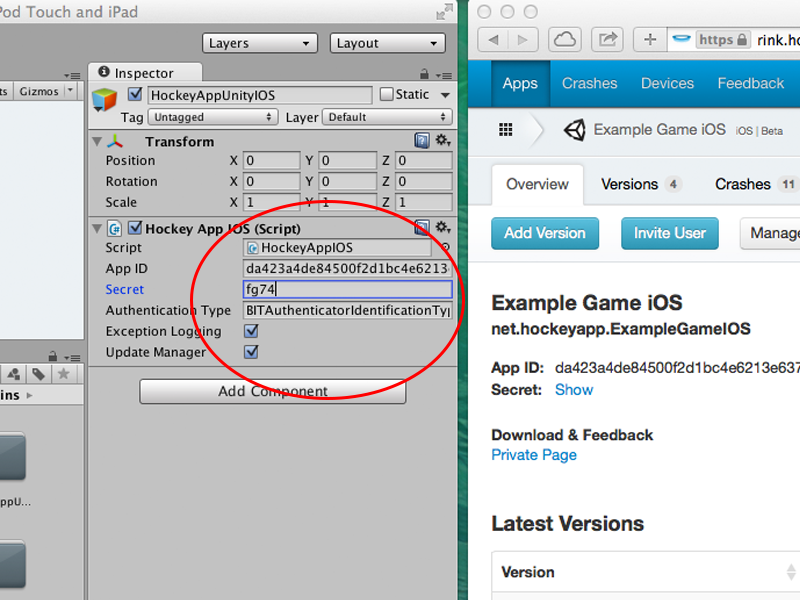
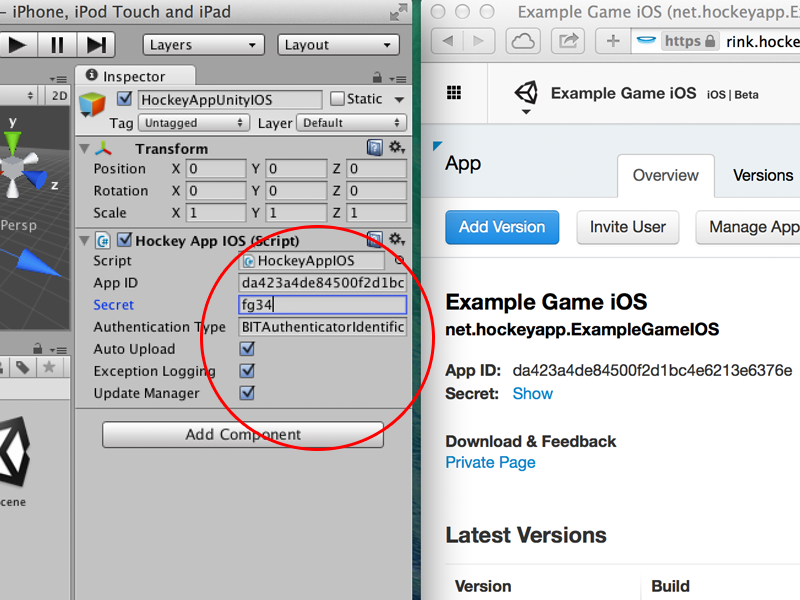
Update readme.md (add auto-send feature)

diff --git a/README.md b/README.md
@@ -28,10 +28,11 @@ Add the **HockeyAppIOS.cs** as a component of your new created gameobject.
 Select the game object in the **Hierarchy** pane and fill in some additional informations inside the Inspector window. 
 
 * **App ID** - the app ID provided by HockeyApp
-* **Exception Logging** - by checking this option you will get more precise information about exceptions in your Unity scripts
-* **Update Manager** - ckeck this option if users should be informed about app updates from inside your app
-* **Authentication Type** - an authentication type as string (see [Authenticating Users on iOS](http://support.hockeyapp.net/kb/client-integration-ios-mac-os-x/authenticating-users-on-ios))
 * **Secret** - the secret provided by HockeyApp (only for authentication using email address)
+* **Authentication Type** - an authentication type as string (see [Authenticating Users on iOS](http://support.hockeyapp.net/kb/client-integration-ios-mac-os-x/authenticating-users-on-ios))
+* **Exception Logging** - by checking this option you will get more precise information about exceptions in your Unity scripts
+* **Auto Upload** -  this option defines if the crash reporting feature should send crash reportings automatically without asking the user. 
+* **Update Manager** - ckeck this option if users should be informed about app updates from inside your app
 
 ![alt text](Documentation/04_script_vars.png "Configure script")
 
@@ -49,7 +50,7 @@ You are now ready to build the Xcode project: Select *File -> Build Settings...*
 
 Open the player settings and make sure that **Bundle identifier** (*Other settings -> Identification*) equals the bundle identifier of the app on HockeyApp (*Manage App -> Basic Data*).
 
-![alt text](Documentation/07_player_settings.png?raw=true "Configure player settings")
+![alt text](Documentation/07_player_settings.png "Configure player settings")
 
 If you want to enable exception logging, please also select *Other settings -> Optimization -> Slow and safe* as well. Otherwise all exceptions will result in an app crash.
 
